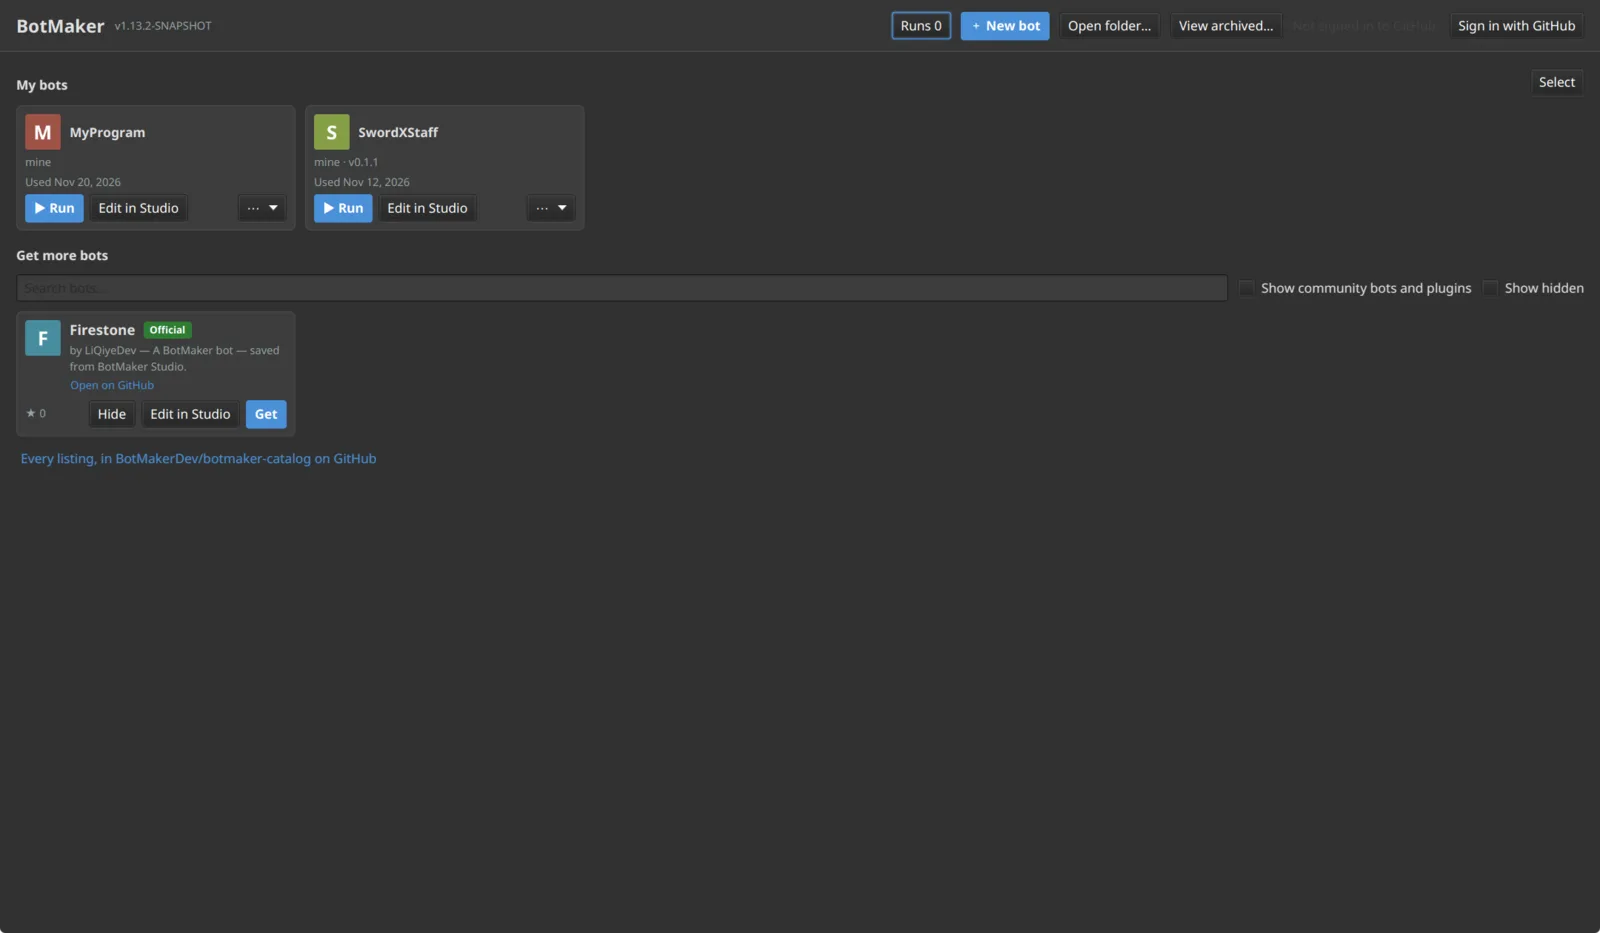
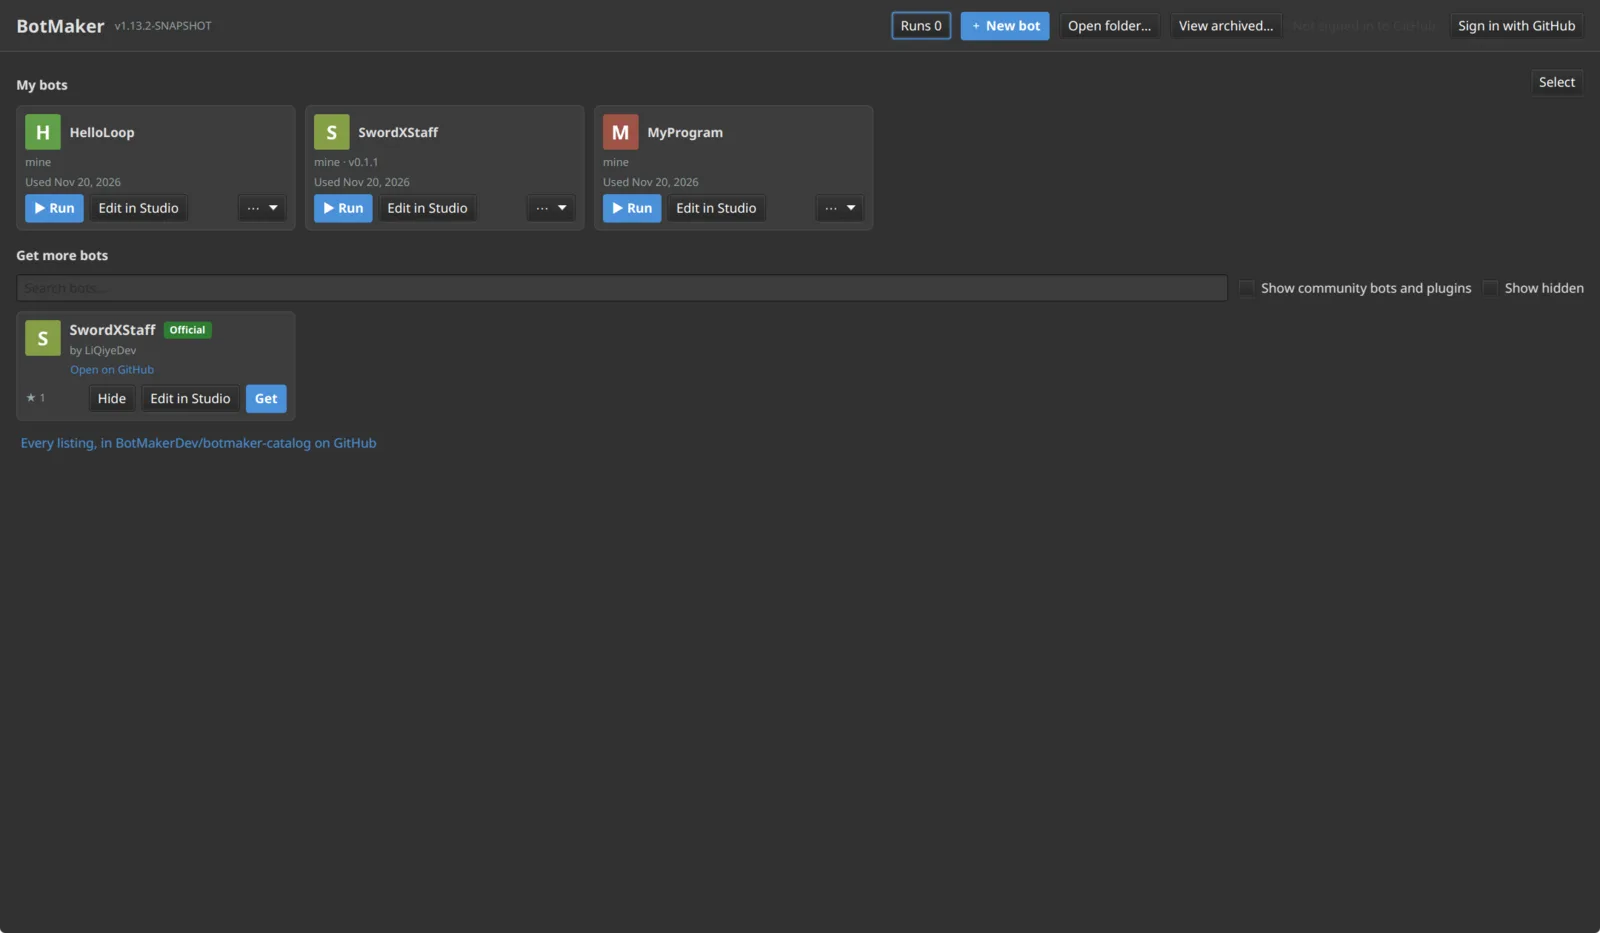
Home shots show the catalog with SwordXStaff, Firestone delisted

Changed region(s): [[0.0, 0.3419, 0.25, 0.4973], [0.375, 0.1243, 0.4688, 0.2487], [0.0, 0.1243, 0.0938, 0.1554]]

diff --git a/src/content/docs/docs/how-to/run-a-bot.md b/src/content/docs/docs/how-to/run-a-bot.md
@@ -37,7 +37,7 @@ Beside the button, **Download .bmk** gets the file itself, to keep or to give to
 list. Drop the `.bmk` anywhere on it, or start BotMaker with the file:
 
 ```bash
-botmaker-studio --open=firestone-1.0.0.bmk
+botmaker-studio --open=SwordXStaff-0.1.2.bmk
 ```
 
 Before anything runs, the file is checked:
@@ -48,7 +48,7 @@ Before anything runs, the file is checked:
 - **A file the catalog does not list** (shared privately, or someone's unpublished bot) still opens, after a
   stronger warning: nobody checked it.
 
-The first time you open a bot by an author, a sheet asks first: "“Firestone” by its author (Community) runs code on
+The first time you open a bot by an author, a sheet asks first: "“SwordXStaff” by its author (Community) runs code on
 this computer." Choose **Run it** only for a bot you trust; a bot can do anything a program on your computer can.
 For a bot the catalog lists, BotMaker remembers your answer for its later versions; an unlisted file asks each
 time.
